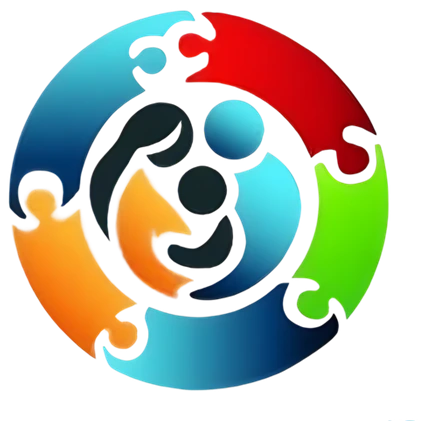
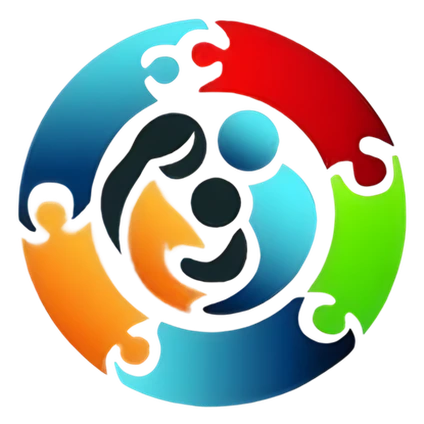
Add files via upload

diff --git a/acessibilidade.html b/acessibilidade.html
@@ -5,7 +5,10 @@
   <meta name="viewport" content="width=device-width, initial-scale=1">
   <title>Declaração de Acessibilidade · Espaço Niño</title>
   <meta name="robots" content="noindex, follow">
-  <link rel="icon" type="image/png" href="assets/favicon.png">
+  <link rel="icon" href="assets/favicon.ico" sizes="48x48">
+  <link rel="icon" type="image/png" sizes="32x32" href="assets/favicon-32.png">
+  <link rel="icon" type="image/png" sizes="64x64" href="assets/favicon.png">
+  <link rel="apple-touch-icon" href="assets/apple-touch-icon.png">
   <link rel="preconnect" href="https://fonts.googleapis.com">
   <link rel="preconnect" href="https://fonts.gstatic.com" crossorigin>
   <link href="https://fonts.googleapis.com/css2?family=Fraunces:ital,opsz,wght@0,9..144,340..620;1,9..144,340..620&family=Plus+Jakarta+Sans:wght@400;500;600;700;800&family=Big+Shoulders+Display:wght@500;600;700&display=swap" rel="stylesheet">

diff --git a/lgpd.html b/lgpd.html
@@ -5,7 +5,10 @@
   <meta name="viewport" content="width=device-width, initial-scale=1">
   <title>Canal LGPD · Espaço Niño</title>
   <meta name="robots" content="noindex, follow">
-  <link rel="icon" type="image/png" href="assets/favicon.png">
+  <link rel="icon" href="assets/favicon.ico" sizes="48x48">
+  <link rel="icon" type="image/png" sizes="32x32" href="assets/favicon-32.png">
+  <link rel="icon" type="image/png" sizes="64x64" href="assets/favicon.png">
+  <link rel="apple-touch-icon" href="assets/apple-touch-icon.png">
   <link rel="preconnect" href="https://fonts.googleapis.com">
   <link rel="preconnect" href="https://fonts.gstatic.com" crossorigin>
   <link href="https://fonts.googleapis.com/css2?family=Fraunces:ital,opsz,wght@0,9..144,340..620;1,9..144,340..620&family=Plus+Jakarta+Sans:wght@400;500;600;700;800&family=Big+Shoulders+Display:wght@500;600;700&display=swap" rel="stylesheet">

diff --git a/privacidade.html b/privacidade.html
@@ -5,7 +5,10 @@
   <meta name="viewport" content="width=device-width, initial-scale=1">
   <title>Política de Privacidade · Espaço Niño</title>
   <meta name="robots" content="noindex, follow">
-  <link rel="icon" type="image/png" href="assets/favicon.png">
+  <link rel="icon" href="assets/favicon.ico" sizes="48x48">
+  <link rel="icon" type="image/png" sizes="32x32" href="assets/favicon-32.png">
+  <link rel="icon" type="image/png" sizes="64x64" href="assets/favicon.png">
+  <link rel="apple-touch-icon" href="assets/apple-touch-icon.png">
   <link rel="preconnect" href="https://fonts.googleapis.com">
   <link rel="preconnect" href="https://fonts.gstatic.com" crossorigin>
   <link href="https://fonts.googleapis.com/css2?family=Fraunces:ital,opsz,wght@0,9..144,340..620;1,9..144,340..620&family=Plus+Jakarta+Sans:wght@400;500;600;700;800&family=Big+Shoulders+Display:wght@500;600;700&display=swap" rel="stylesheet">

diff --git a/termos.html b/termos.html
@@ -5,7 +5,10 @@
   <meta name="viewport" content="width=device-width, initial-scale=1">
   <title>Termos de Uso · Espaço Niño</title>
   <meta name="robots" content="noindex, follow">
-  <link rel="icon" type="image/png" href="assets/favicon.png">
+  <link rel="icon" href="assets/favicon.ico" sizes="48x48">
+  <link rel="icon" type="image/png" sizes="32x32" href="assets/favicon-32.png">
+  <link rel="icon" type="image/png" sizes="64x64" href="assets/favicon.png">
+  <link rel="apple-touch-icon" href="assets/apple-touch-icon.png">
   <link rel="preconnect" href="https://fonts.googleapis.com">
   <link rel="preconnect" href="https://fonts.gstatic.com" crossorigin>
   <link href="https://fonts.googleapis.com/css2?family=Fraunces:ital,opsz,wght@0,9..144,340..620;1,9..144,340..620&family=Plus+Jakarta+Sans:wght@400;500;600;700;800&family=Big+Shoulders+Display:wght@500;600;700&display=swap" rel="stylesheet">

diff --git a/js/main.js b/js/main.js
@@ -521,4 +521,8 @@
       window.setTimeout(() => responder(texto), reduzirMovimento ? 0 : 350);
     });
   }
+  /* ── 17 · Carrossel de convênios: anima só com as larguras estáveis ─────── */
+  window.addEventListener('load', () =>
+    $$('.logo-wall').forEach(w => w.classList.add('is-ready'))
+  );
 })();

diff --git a/scss/main.scss b/scss/main.scss
@@ -1781,7 +1781,10 @@ html.js .reveal {
     padding-right: 2.6rem; // = gap, para o loop emendar sem salto
     flex: none;
     animation: marquee 80s linear infinite;
+    animation-play-state: paused; // roda só após o load (larguras estáveis)
   }
+
+  &.is-ready &__track { animation-play-state: running; }
 
   &__note {
     margin: 0.9rem 0 0;